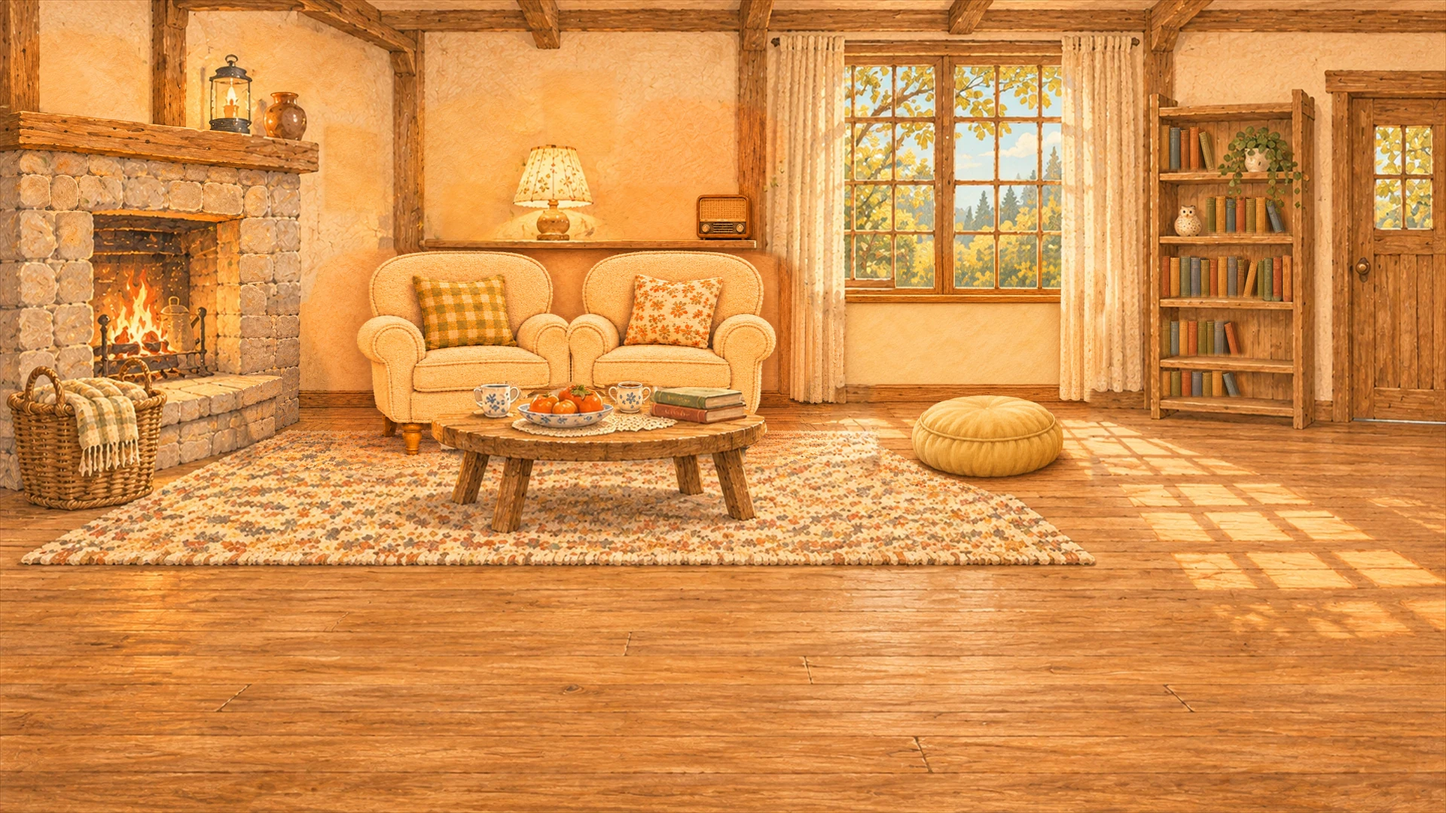
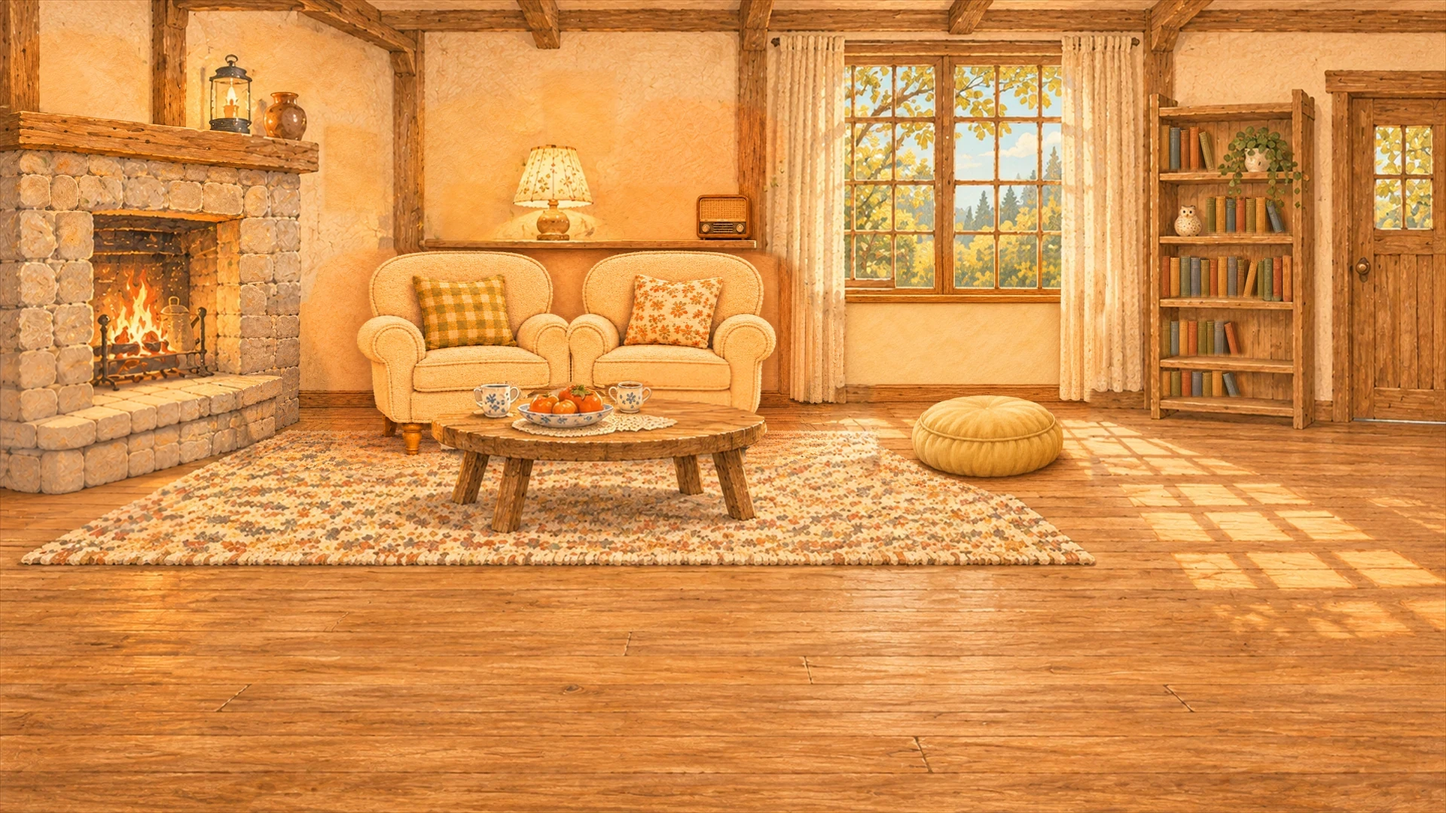
불멍 방석과 모모·세미 낮잠
- 벽난로 옆 담요 바구니와 탁자 위 책 두 권을 배경 그림에서 지움(그 자리만 고침)
- firewatch.js: 벽난로 앞 방석 세 개. 누르면 아바타가 걸어가 앉아 불을 바라보고(아바타별 그림 8장), 타닥타닥 소리. 방석을 다시 누르거나 다른 곳을 누르면 일어남
- pets.js: 모모·세미가 보리 앞에서 낮잠(새 그림: 모모 쭉 뻗고, 세미 발라당). 누르면 일어나 앉았다가 12초 뒤 다시 잠
- room.js: roomAvatar.visitorId() 추가
- index.html: firewatch.js 추가, pets.js·room.js·motion.css·배경 버전 올림

Claude-Session: https://claude.ai/code/session_01KEHidkbKHieiJQwSWV1hpY

Changed region(s): [[0.0, 0.4278, 0.125, 0.6417], [0.4375, 0.4583, 0.5312, 0.5194]]

diff --git a/livingroom/room/firewatch.js b/livingroom/room/firewatch.js
@@ -1,0 +1,130 @@
+'use strict';
+
+// 벽난로 앞 불멍 (Claude, 2026-11-21)
+// - 벽난로 앞(담요 바구니가 있던 자리)에 방석 세 개를 놓아요. 창가 둥근 방석과 같은 색.
+// - 방석을 누르면 아바타가 걸어가 앉아 벽난로 불을 바라봐요(images/firewatch/firewatch-{아바타}[-right].webp).
+// - 앉아 있는 동안은 타닥타닥 불 소리만(말 없음). 방석을 다시 누르거나 다른 곳을 누르면 일어나요.
+// - 그림이 없으면 방석도 나타나지 않아요.
+(() => {
+  const stage = document.getElementById('stage');
+  if (!stage) return;
+  const t = text => window.homeText ? window.homeText.t(text) : text;
+  const CUSHION = 'images/cushions/floor-cushion.webp';
+  const pct = (v, total) => (v / total * 100) + '%';
+  // 거실 그림(1920 × 1080) 기준: 방석 왼쪽 위 x, y, 너비, 좌우 뒤집기, 앉으면 보는 쪽(불이 왼쪽에 있으면 left)
+  // 방석 너비 240: 앉은 그림의 사람 키가 서 있는 아바타 키의 절반 남짓이 되는 크기(11-21 고침, 전엔 150이라 앉으면 작아짐)
+  const SPOTS = [
+    { x: 14, y: 676, w: 240, flip: false, look: 'right' },   // 벽난로 받침 앞 바닥(11-21: 받침 위로 떠 보여 내림)
+    { x: 248, y: 640, w: 240, flip: true, look: 'left' },
+    { x: 196, y: 808, w: 240, flip: false, look: 'left' },
+  ];
+  const ASPECT = 181 / 300; // 방석 그림 높이/너비
+
+  const css = document.createElement('style');
+  css.textContent = `
+    .firewatch-cushion { position: absolute; padding: 0; border: 0; background: none; cursor: pointer; }
+    .firewatch-cushion img { display: block; width: 100%; height: auto; pointer-events: none; }
+    .firewatch-cushion.is-flipped img { transform: scaleX(-1); }
+    .firewatch-cushion:hover img, .firewatch-cushion:focus-visible img { filter: brightness(1.06); }
+    .firewatch-cushion:focus-visible { outline: 2px solid #795222; outline-offset: 2px; border-radius: 6px; }
+    .firewatch-cushion.is-taken img { opacity: 0; }
+    .firewatch-sitter { position: absolute; pointer-events: none; transform: translateY(-100%); opacity: 0; transition: opacity .45s ease; }
+    .firewatch-sitter.is-shown { opacity: 1; }
+    .firewatch-sitter img { display: block; width: 100%; height: auto; }
+    body.is-firewatching #avatar { visibility: hidden; }
+  `;
+  document.head.append(css);
+
+  const cushions = [];
+  const probe = new Image();
+  probe.onload = () => SPOTS.forEach(build);
+  probe.src = CUSHION;
+
+  function build(spot, index) {
+    const button = document.createElement('button');
+    button.type = 'button';
+    button.className = 'firewatch-cushion' + (spot.flip ? ' is-flipped' : '');
+    button.dataset.homeAria = '벽난로 앞 방석';
+    button.setAttribute('aria-label', t('벽난로 앞 방석'));
+    const bottom = spot.y + spot.w * ASPECT;
+    button.style.left = pct(spot.x, 1920);
+    button.style.top = pct(spot.y, 1080);
+    button.style.width = pct(spot.w, 1920);
+    button.style.zIndex = String(Math.round(bottom / 1080 * 1000));
+    const image = document.createElement('img');
+    image.src = CUSHION;
+    image.alt = '';
+    image.draggable = false;
+    button.append(image);
+    button.addEventListener('click', event => {
+      event.stopPropagation();
+      if (sitting && sitting.index === index) stand();
+      else sitDown(spot, index);
+    });
+    stage.append(button);
+    cushions[index] = button;
+  }
+
+  let sitting = null, walking = false, crackleTimer = 0;
+  function sitDown(spot, index) {
+    const avatar = window.roomAvatar;
+    if (!avatar || walking) return;
+    if (sitting) stand();
+    const id = avatar.visitorId?.() || 'woman';
+    const art = 'images/firewatch/firewatch-' + id + (spot.look === 'right' ? '-right' : '') + '.webp';
+    const centerX = (spot.x + spot.w / 2) / 1920 * 100;
+    const bottomY = (spot.y + spot.w * ASPECT) / 1080 * 100;
+    const target = { x: centerX, y: bottomY, offsetX: spot.look === 'left' ? 3 : -3, offsetY: 2 };
+    walking = true;
+    const started = avatar.approach(target, () => {
+      walking = false;
+      const pic = new Image();
+      pic.onload = () => show(spot, index, art);
+      pic.onerror = () => {};
+      pic.src = art;
+    }, () => { walking = false; });
+    if (!started) walking = false;
+  }
+
+  function show(spot, index, art) {
+    const sitter = document.createElement('div');
+    sitter.className = 'firewatch-sitter';
+    const bottom = spot.y + spot.w * ASPECT;
+    sitter.style.left = pct(spot.x, 1920);
+    sitter.style.top = pct(bottom + 2, 1080);
+    sitter.style.width = pct(spot.w, 1920);
+    sitter.style.zIndex = String(Math.round(bottom / 1080 * 1000) + 1);
+    const image = document.createElement('img');
+    image.src = art;
+    image.alt = '';
+    sitter.append(image);
+    stage.append(sitter);
+    document.body.classList.add('is-firewatching');
+    cushions[index]?.classList.add('is-taken');
+    requestAnimationFrame(() => sitter.classList.add('is-shown'));
+    sitting = { index, sitter };
+    const crackle = () => { window.roomFire?.crackle?.(8, .45); crackleTimer = setTimeout(crackle, 7600); };
+    crackle();
+  }
+
+  function stand() {
+    if (!sitting) return;
+    clearTimeout(crackleTimer);
+    window.roomFire?.quiet?.();
+    const { index, sitter } = sitting;
+    sitting = null;
+    document.body.classList.remove('is-firewatching');
+    cushions[index]?.classList.remove('is-taken');
+    sitter.remove();
+  }
+
+  // 다른 곳을 누르면 일어나서 그쪽으로 가요.
+  stage.addEventListener('click', event => {
+    if (sitting && !event.target.closest('.firewatch-cushion')) stand();
+  }, true);
+  document.addEventListener('keydown', event => { if (event.key === 'Escape') stand(); });
+  document.addEventListener('hometextchange', () => {
+    cushions.forEach(button => button?.setAttribute('aria-label', t('벽난로 앞 방석')));
+  });
+  window.roomFirewatch = { stand, get sitting() { return Boolean(sitting); } };
+})();

diff --git a/livingroom/room/pets.js b/livingroom/room/pets.js
@@ -18,7 +18,9 @@
   // ---------- 켜고 끄기 ----------
   // 11-17 밤: 고양이는 할아버지·할머니처럼 원래 자리에 가만히 있어요. 보리만 더해서 같이 책 읽기.
   // 캣타워, 고양이 돌아다니기, 장난감 바구니(낚싯대·공·인형)는 코드만 남겨 두고 꺼 뒀어요. 다시 쓰려면 true.
-  const FEATURES = { catsMove: false, catTower: false, toyBasket: false };
+  const FEATURES = { catsMove: false, catTower: false, toyBasket: false, catNap: true };
+  // 11-21: 모모·세미는 보리 곁 햇살 자리에서 낮잠. 누르면 일어나 앉았다가 12초 뒤 다시 자요(걷기는 나중에).
+  const NAP_SPOT = { momo: { x: 86.8, y: 70.6, facing: 1, width: 12 }, semi: { x: 77.4, y: 70.9, facing: 1, width: 7.2 } }; // 보리 아래쪽(앞). width: 새 자는 그림(11-21) 너비 %
 
   // ---------- 자리(거실 그림 기준 %) ----------
   // 2층 캣타워: 벽난로 옆(담요 바구니 자리). 1층은 세미, 2층은 모모 자리예요.
@@ -163,6 +165,27 @@
       });
     }
     if (FEATURES.catsMove) cats.forEach(cat => schedule(cat, 6000 + Math.random() * 10000));
+    if (FEATURES.catNap) cats.forEach(napWithBori);
+  }
+
+  // 보리 곁에서 낮잠, 누르면 일어나 앉기
+  function napWithBori(cat) {
+    const spot = NAP_SPOT[cat.id];
+    if (!spot || cat.napSetup) return;
+    cat.napSetup = true;
+    cat.x = spot.x; cat.y = spot.y; cat.home = { x: spot.x, y: spot.y };
+    placeCat(cat);
+    showCat(cat, 'sleep', spot.facing);
+    // 새 자는 그림이 늦게 불러와져도 다시 그려요.
+    probe(ART[cat.id]?.newSleep, () => { if (cat.state === 'sleep') showCat(cat, 'sleep', spot.facing); });
+    cat.el.addEventListener('click', () => {
+      clearTimeout(cat.napTimer);
+      if (cat.state === 'sleep') showCat(cat, 'sit', spot.facing);
+      cat.napTimer = setTimeout(() => {
+        if (document.querySelector('.fam-bubble') && cat.id === 'semi') { cat.napTimer = setTimeout(() => showCat(cat, 'sleep', spot.facing), 8000); return; }
+        showCat(cat, 'sleep', spot.facing);
+      }, still() ? 4000 : 12000);
+    });
   }
 
   function placeCat(cat) {
@@ -185,7 +208,7 @@
     if (state === 'side') src = side;
     if (state === 'jump') src = found[art.newJump] || side;
     if (state === 'walk' || state === 'side' || state === 'jump') width = cat.baseWidth * (cat.id === 'momo' ? 1.25 : 1.05);
-    if (state === 'sleep') { src = found[art.newSleep] || art.sleep; width = cat.baseWidth * 1.5; }
+    if (state === 'sleep') { src = found[art.newSleep] || art.sleep; width = found[art.newSleep] && NAP_SPOT[cat.id]?.width || cat.baseWidth * 1.5; }
     if (cat.img.getAttribute('src') !== src) cat.img.src = src;
     const front = state === 'sit';
     cat.img.style.aspectRatio = front ? '' : 'auto';

diff --git a/livingroom/room/index.html b/livingroom/room/index.html
@@ -8,7 +8,7 @@
   <link rel="stylesheet" href="kitchen.css?v=kitchen-stage-3b">
   <link rel="stylesheet" href="garden.css?v=garden-5">
   <link rel="stylesheet" href="pets.css?v=sweet-potato-tray-1">
-  <link rel="stylesheet" href="motion.css?v=floor-weather">
+  <link rel="stylesheet" href="motion.css?v=no-basket">
   <script src="settings.js?v=public-reading"></script>
   <script>
     // Parser-ordered scripts ensure optional features are ready before the room starts.
@@ -29,9 +29,10 @@
   <script src="kitchen.js?v=webp-1" defer></script>
   <script src="garden.js?v=webp-1" defer></script>
   <script src="family-photo.js?v=photo-1" defer></script>
-  <script src="pets.js?v=sweet-potato-tray-2" defer></script>
+  <script src="pets.js?v=cat-nap-3" defer></script>
   <script src="fireplace.js?v=fire-3" defer></script>
-  <script src="room.js?v=sweet-potato-tray-1" defer></script>
+  <script src="firewatch.js?v=fw-3" defer></script>
+  <script src="room.js?v=firewatch-1" defer></script>
 </head>
 <body>
   <main id="experience" class="experience" aria-label="마음동화책방 새 책방" data-room-aria="마음동화책방 새 책방"
@@ -51,8 +52,8 @@
       </div>
       <output class="home-stars room-stars" data-home-stars hidden>마음 별 5개</output>
     </header>
-    <div id="stage" class="room room-width" style="--room-image: url('images/room_a_chair_03_shelf_v2.webp?v=lighter')" aria-label="햇살이 드는 책방" data-room-aria="햇살이 드는 책방">
-      <img class="room-picture" src="images/room_a_chair_03_shelf_v2.webp?v=lighter" alt="벽난로와 안락의자, 바닥 방석이 있는 책방" draggable="false"
+    <div id="stage" class="room room-width" style="--room-image: url('images/room_a_chair_03_shelf_v2.webp?v=no-basket')" aria-label="햇살이 드는 책방" data-room-aria="햇살이 드는 책방">
+      <img class="room-picture" src="images/room_a_chair_03_shelf_v2.webp?v=no-basket" alt="벽난로와 안락의자, 바닥 방석이 있는 책방" draggable="false"
         onerror="if(!this.dataset.retries||+this.dataset.retries<3){this.dataset.retries=(+this.dataset.retries||0)+1;var s=this.src.split('?')[0];setTimeout(()=>{this.src=s+'?retry='+this.dataset.retries+'-'+Date.now();}, 400*this.dataset.retries);}">
       <button id="kitchen-entry" class="kitchen-door kitchen-entry" type="button" data-home-text="← 부엌 가기">← 부엌 가기</button>
       <button id="garden-entry" class="kitchen-door garden-entry" type="button" data-home-text="텃밭 가기 →">텃밭 가기 →</button>

diff --git a/livingroom/room/motion.css b/livingroom/room/motion.css
@@ -257,7 +257,7 @@
 
 
 /* 새 방의 배경과 가구 윤곽 */
-.room { --room-image: url("images/room_a_chair_03_shelf_v2.png?v=shelf-pot-removed"); --shadow-tune: .7; aspect-ratio: 16/9; }
+.room { --room-image: url("images/room_a_chair_03_shelf_v2.png?v=no-basket"); --shadow-tune: .7; aspect-ratio: 16/9; }
 .chair-layer {clip-path:ellipse(5.6% 5.2% at 68.1% 53.5%); z-index:587;}
 .chair-target {left:62.5%;top:48.6%;width:11.2%;height:10.2%;border-radius:50%;}
 .weather-radio {left:48.15%;top:23.9%;width:4.05%;height:5.85%;}

diff --git a/livingroom/room/room.js b/livingroom/room/room.js
@@ -893,6 +893,10 @@ window.roomAvatar = {
   hasPersimmonArt() {
     return persimmonArt.has(visitor?.id);
   },
+  // 지금 아바타 종류(woman, man, boy, girl). 불멍 그림 고를 때 씀(Claude 추가, 11-21).
+  visitorId() {
+    return visitor?.id;
+  },
   faceToward(x) {
     if (!visitor || mode !== 'idle') return;
     direction = x < position.x ? -1 : 1;
